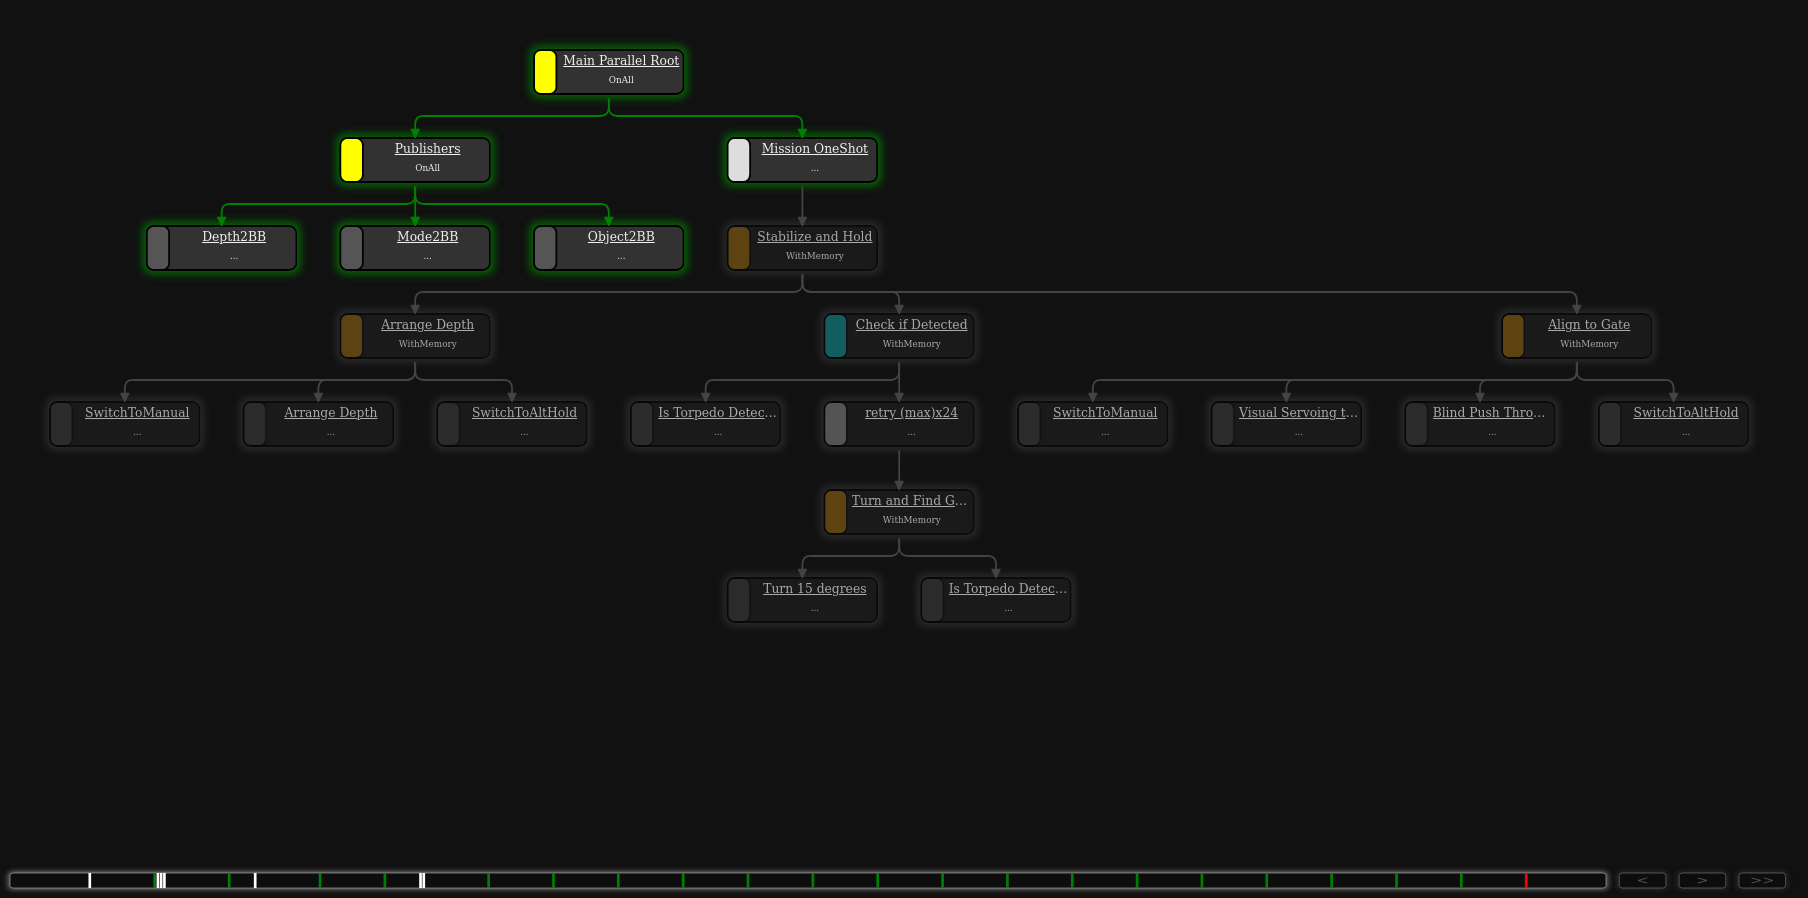
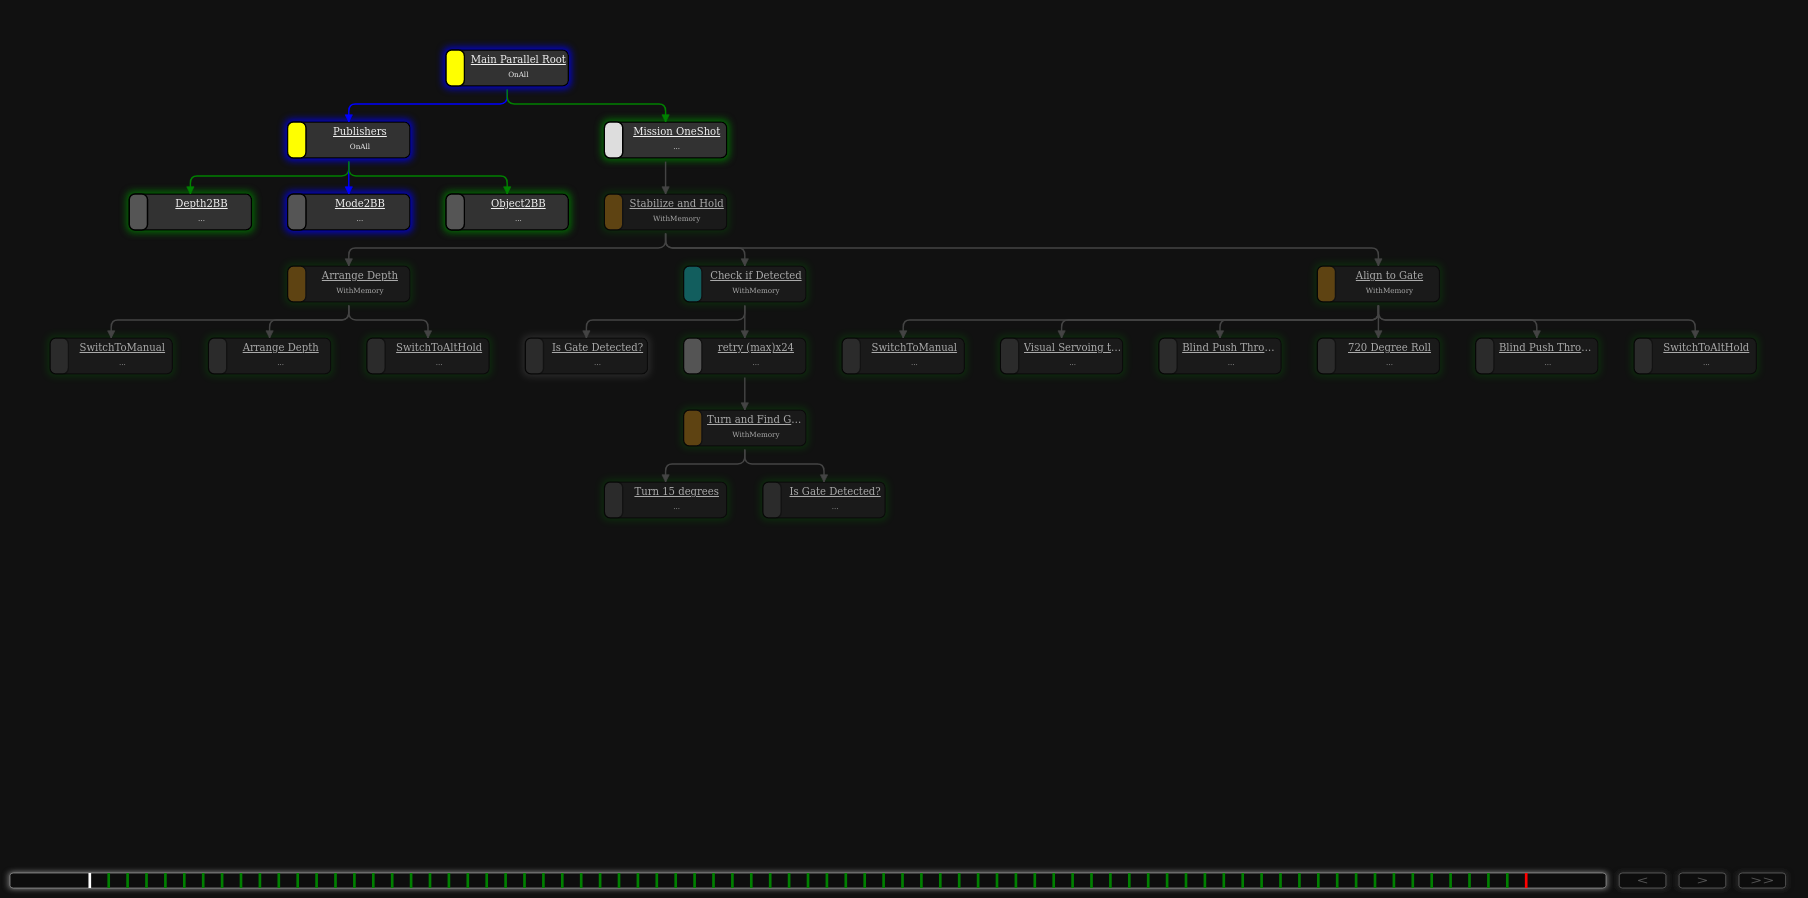
feat: added 2 times yaw to celebrate for gate mission

diff --git a/auv_control/auv_control/roller.py b/auv_control/auv_control/roller.py
@@ -1,0 +1,165 @@
+import rclpy
+from rclpy.action import ActionServer, CancelResponse, GoalResponse
+from rclpy.node import Node
+from rclpy.callback_groups import ReentrantCallbackGroup
+from rclpy.executors import MultiThreadedExecutor
+from geometry_msgs.msg import Twist
+from sensor_msgs.msg import Imu
+from auv_interfaces.action import Roll
+import math
+import time
+
+KP = 1.0
+TOLERANCE_RAD = 0.05
+MIN_SPEED = 0.15
+
+# ÖNEMLİ: Eğer robot hala sonsuza kadar dönüyorsa, bu değeri -1.0 yap!
+# Bu, motorun dönüş yönüyle IMU'nun okuma yönü ters ise onları eşitlemeye yarar.
+MOTOR_DIRECTION = -1.0 
+
+def normalize_angle(angle):
+    while angle > math.pi: angle -= 2.0 * math.pi
+    while angle < -math.pi: angle += 2.0 * math.pi
+    return angle
+
+def euler_from_quaternion(x, y, z, w):
+    t3 = +2.0 * (w * z + x * y)
+    t4 = +1.0 - 2.0 * (y * y + z * z)
+    return math.atan2(t3, t4)
+
+class ScanActionServer(Node):
+    def __init__(self):
+        super().__init__("scan_action_server")
+
+        self.callback_group = ReentrantCallbackGroup()
+        self._action_server = ActionServer(
+            self,
+            Roll,
+            "roll",
+            execute_callback=self.execute_callback,
+            goal_callback=self.goal_callback,
+            cancel_callback=self.cancel_callback,
+            callback_group=self.callback_group
+        )
+        self.vel_pub = self.create_publisher(Twist, "/cmd_vel", 10)
+        self.imu_sub = self.create_subscription(
+            Imu, 
+            "/imu0", 
+            self.imu_callback, 
+            10,
+            callback_group=self.callback_group
+        )
+
+        self.current_yaw = 0.0
+        self.is_imu_received = False
+        self.get_logger().info("Scan Action Server Hazır. /imu topici bekleniyor...")
+
+    def imu_callback(self, msg):
+        q = msg.orientation
+        self.current_yaw = euler_from_quaternion(q.x, q.y, q.z, q.w)
+        self.is_imu_received = True
+
+    def goal_callback(self, goal_request):
+        if not self.is_imu_received:
+            self.get_logger().warn("REDDEDİLDİ: /imu verisi henüz gelmedi.")
+            return GoalResponse.REJECT
+
+        if goal_request.angular_speed <= 0.0:
+            self.get_logger().warn("REDDEDİLDİ: Hız 0 veya negatif olamaz.")
+            return GoalResponse.REJECT
+
+        self.get_logger().info(f"KABUL EDİLDİ: Hedef {goal_request.target_angle_deg} derece.")
+        return GoalResponse.ACCEPT
+
+    def cancel_callback(self, goal_handle):
+        self.get_logger().info("İptal isteği alındı. Durduruluyor...")
+        self.stop_robot()
+        return CancelResponse.ACCEPT
+
+    async def execute_callback(self, goal_handle):
+        # Hedefi artık client'tan alıyoruz (örn: 720 veya -720)
+        target_deg_relative = goal_handle.request.target_angle_deg
+        target_rad = math.radians(target_deg_relative)
+        max_speed = goal_handle.request.angular_speed
+        
+        accumulated_yaw = 0.0
+        previous_yaw = self.current_yaw
+        
+        feedback_msg = Roll.Feedback()
+        result = Roll.Result()
+        cmd = Twist()
+
+        rate = self.create_rate(20) 
+
+        while rclpy.ok():
+            if goal_handle.is_cancel_requested:
+                self.stop_robot()
+                goal_handle.canceled()
+                result.success = False
+                result.message = "Operasyon iptal edildi."
+                return result
+
+            delta_yaw = normalize_angle(self.current_yaw - previous_yaw)
+            accumulated_yaw += delta_yaw
+            previous_yaw = self.current_yaw
+
+            error = target_rad - accumulated_yaw
+
+            feedback_msg.current_angle_deg = math.degrees(accumulated_yaw)
+            goal_handle.publish_feedback(feedback_msg)
+
+            if abs(error) < TOLERANCE_RAD:
+                self.stop_robot()
+                self.get_logger().info("Hedefe varıldı!")
+                break
+
+            # Motor yönü ile IMU tersliği ihtimaline karşı MOTOR_DIRECTION ile çarpıyoruz
+            calculated_speed = error * KP * MOTOR_DIRECTION
+
+            if abs(calculated_speed) > max_speed: 
+                calculated_speed = math.copysign(max_speed, calculated_speed)
+            if abs(calculated_speed) < MIN_SPEED: 
+                calculated_speed = math.copysign(MIN_SPEED, calculated_speed)
+
+            cmd.angular.z = calculated_speed
+            self.vel_pub.publish(cmd)            
+            rate.sleep()
+            
+        self.stop_robot()
+        goal_handle.succeed()
+        
+        result.success = True
+        result.message = f"{target_deg_relative} derecelik dönüş tamamlandı."
+        return result
+
+    def stop_robot(self):
+        cmd = Twist()
+        cmd.angular.z = 0.0
+        # Güvence için üst üste birkaç kez sıfır komutu gönderelim
+        for _ in range(3):
+            self.vel_pub.publish(cmd)
+            time.sleep(0.05)
+
+def main(args=None):
+    rclpy.init(args=args)
+    action_server = ScanActionServer()
+    executor = MultiThreadedExecutor()
+    executor.add_node(action_server)
+
+    try:
+        executor.spin()
+    except KeyboardInterrupt:
+        # Ctrl+C basıldığında rclpy kapanmadan ÖNCE motorları durduruyoruz!
+        action_server.get_logger().info("\nCtrl+C algılandı, motorlar ACİL durduruluyor...")
+        action_server.stop_robot()
+    finally:
+        try:
+            executor.shutdown()
+        except Exception:
+            pass
+        action_server.destroy_node()
+        if rclpy.ok():
+            rclpy.shutdown()
+
+if __name__ == "__main__":
+    main()

diff --git a/auv_hardware/launch/gate_behaviour_tree.launch.py b/auv_hardware/launch/gate_behaviour_tree.launch.py
@@ -11,6 +11,13 @@ def generate_launch_description():
         output='screen'
     )
 
+    roller = Node(
+        package='auv_control',
+        executable='roller',
+        name='roller',
+        output='screen'
+    )
+
     blind_push_action = Node(
         package='auv_control',
         executable='blind_push_action',
@@ -39,6 +46,13 @@ def generate_launch_description():
         output='screen',
     )
 
+    object_keypoint_detector = Node(
+        package='auv_vision',
+        executable='object_keypoint_detector',
+        name='object_keypoint_detector',
+        output='screen'
+    )
+
     change_mode_service = Node(
         package='auv_hardware',
         executable='change_mode_service',
@@ -53,10 +67,10 @@ def generate_launch_description():
         output='screen'
     )
 
-    object_keypoint_detector = Node(
-        package='auv_vision',
-        executable='object_keypoint_detector',
-        name='object_keypoint_detector',
+    change_mode_service = Node(
+        package='auv_hardware',
+        executable='change_mode_service',
+        name='change_mode_service',
         output='screen'
     )
 
@@ -83,7 +97,7 @@ def generate_launch_description():
         ),
         TimerAction(
             period=10.0,
-            actions=[change_mode_service]
+            actions=[object_keypoint_detector]
         ),
         TimerAction(
             period=12.0,
@@ -91,10 +105,14 @@ def generate_launch_description():
         ),
         TimerAction(
             period=14.0,
-            actions=[object_keypoint_detector]
+            actions=[change_mode_service]
         ),
         TimerAction(
-            period=17.0,
+            period=16.0,
+            actions=[roller]
+        ),
+        TimerAction(
+            period=19.0,
             actions=[LogInfo(msg="===================================\nALL NODES HAVE STARTED SUCCESSFULLY\n===================================")]
         )
     ])

diff --git a/auv_bt/gate/gate_behaviour_tree.py b/auv_bt/gate/gate_behaviour_tree.py
@@ -22,6 +22,7 @@ import common_behaviors.state
 from auv_interfaces.action import VisualServoing
 from auv_interfaces.action import BlindPush
 from auv_interfaces.action import YawAndScan
+from auv_interfaces.action import Roll  
 from auv_interfaces.srv import SetVehicleMode
 
 
@@ -179,12 +180,32 @@ def create_root() -> py_trees.behaviour.Behaviour:
         )
     )
 
-    blind_push_node = py_trees_ros.action_clients.FromConstant(
+    blind_push_node1 = py_trees_ros.action_clients.FromConstant(
         name="Blind Push Through Gate",
         action_type=BlindPush,
         action_name="/blind_push",
         action_goal=BlindPush.Goal(
-            duration=7.0,
+            duration=4.0,
+            speed=0.3
+        )
+    )
+
+    roll_node = py_trees_ros.action_clients.FromConstant(
+        name="720 Degree Roll",
+        action_type=Roll,
+        action_name="/roll",
+        action_goal=Roll.Goal(
+            target_angle_deg=720.0,
+            angular_speed=0.5
+        )
+    )
+
+    blind_push_node2 = py_trees_ros.action_clients.FromConstant(
+        name="Blind Push Through Gate",
+        action_type=BlindPush,
+        action_name="/blind_push",
+        action_goal=BlindPush.Goal(
+            duration=2.0,
             speed=0.3
         )
     )
@@ -201,7 +222,9 @@ def create_root() -> py_trees.behaviour.Behaviour:
     allign_sequence.add_children([
         switch_mode_manual_second, 
         allign_node, 
-        blind_push_node, 
+        blind_push_node1, 
+        roll_node,
+        blind_push_node2,
         switch_mode_althold_second
     ])
 

diff --git a/auv_control/setup.py b/auv_control/setup.py
@@ -28,7 +28,8 @@ setup(
             'thruster_mixer = auv_control.thruster_mixer:main',
             'visual_servoing_action = auv_control.visual_servoing_action:main',
             'yawer=auv_control.yawer:main',
-            'blind_push_action = auv_control.blind_push_action:main'
+            'blind_push_action = auv_control.blind_push_action:main',
+            'roller = auv_control.roller:main',
         ],
     },
 )

diff --git a/auv_description/launch/gazebo.launch.py b/auv_description/launch/gazebo.launch.py
@@ -106,8 +106,5 @@ def generate_launch_description():
         gz_sim,
         spawn_entity,
         spawn_torpedo,
-        SetEnvironmentVariable('__NV_PRIME_RENDER_OFFLOAD', '1'),
-        SetEnvironmentVariable('__GLX_VENDOR_LIBRARY_NAME', 'nvidia'),
-        SetEnvironmentVariable('GZ_SIM_RENDER_ENGINE', 'ogre2')
         # rviz_node
     ])
